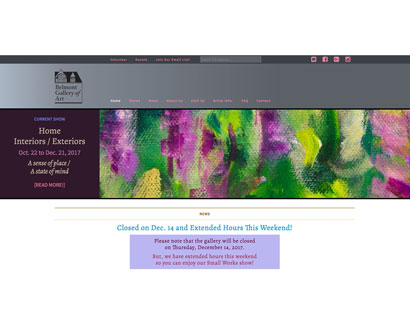
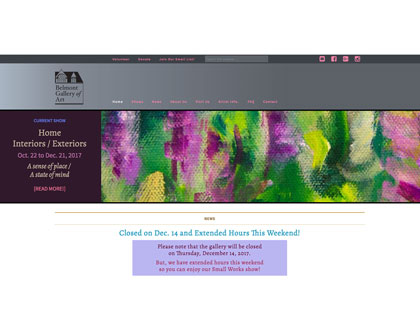
Fixing padding of gallery
• Added row to the gallery div
• Added col-md-12 after gallery div

Changed region(s): [[0.0, 0.1543, 1.0, 0.8333], [0.5268, 0.4012, 0.5561, 0.4321]]

diff --git a/app/public/pages/portgd-rec copy.php b/app/public/pages/portgd-rec copy.php
@@ -122,6 +122,7 @@
 <!-- main -->
 <main>
   <div class="container-xxl">
+
     <section class="page-title-lead">   
           <h2 class="page-title">Portfolio - Design</h2>
           <h3 class="page lead subhd">Recent Design Work</h3>
@@ -132,7 +133,7 @@
     <section class="content"><!-- content area -->
       <!-- Filtering UI -->
       <!-- Isotope Grid Container -->
-      <div class="btn-group filters-button-group mb-4" role="group" aria-label="Basic example">
+      <div class="btn-group filters-button-group mb-4" role="group" aria-label="Design filters">
         <button type="button" class="btn btn-outline-primary is-checked" data-filter="*">all</button>
         <button type="button" class="btn btn-outline-primary" data-filter=".web-design">web design</button>
         <button type="button" class="btn btn-outline-primary" data-filter=".graphic-design">graphic design</button>
@@ -143,22 +144,22 @@
 
       <div class="row mb-4">
       <div class="col-md-4 gallery-item web-design">
-        <a href="../gallery/images/portgd/2025sps-website.jpg" class="" data-toggle="lightbox" data-gallery="web-design" data-size="xl" data-caption="WEB DESIGN &amp; DEVELOPMENT - Skin Perfect Spas: </br>Site had previously used a custom theme built in 2017. Long overdue for an update, we rebuilt the site with all new content (including optimized images) and a Kadence theme. Streamlined the navigation, conformed to accessibility guidelines, and improved overall performance, functionality, security, and SEO. https://skinperfectspas.com/">
-		    <img src="../gallery/images/portgd/2025sps-website.jpg" class="img-fluid" width="1600">
+        <a href="../gallery/images/portgd/2025sps-website.jpg" class="" data-toggle="lightbox" data-gallery="design" data-size="xl" data-caption="WEB DESIGN &amp; DEVELOPMENT - Skin Perfect Spas: </br>Site had previously used a custom theme built in 2017. Long overdue for an update, we rebuilt the site with all new content (including optimized images) and a Kadence theme. Streamlined the navigation, conformed to accessibility guidelines, and improved overall performance, functionality, security, and SEO. https://skinperfectspas.com/">
+		    <img src="../gallery/images/portgd/2025sps-website-thumbnail.jpg" class="img-fluid" width="1600">
 		    <h6 class="gallery-caption text-center mt-2">Skin Perfect Spas</h6>    
         </a>
       </div>
 
       <div class="col-md-4 mb-4 gallery-item web-design">
-	      <a href="../gallery/images/portgd/2025larainearmenti-website.jpg" class="" data-toggle="lightbox" data-gallery="web-design" data-size="xl" data-caption="WEB DEVELOPMENT - Laraine Armenti: <br> Site had been using a Classic theme built with the Genesis framework. When client began experiencing barriers to content and layout modifications, we decided to switch to a more current Block theme. Site was rebuilt with a Kadence theme, enhancing functionality, performance, accessibility, security, and SEO. https://www.larainearmenti.com">
-		    <img src="../gallery/images/portgd/2025larainearmenti-website.jpg" class="img-fluid" alt="LArmenti">
+	      <a href="../gallery/images/portgd/2025larainearmenti-website.jpg" class="" data-toggle="lightbox" data-gallery="design"  data-size="xl" data-caption="WEB DEVELOPMENT - Laraine Armenti: <br> Site had been using a Classic theme built with the Genesis framework. When client began experiencing barriers to content and layout modifications, we decided to switch to a more current Block theme. Site was rebuilt with a Kadence theme, enhancing functionality, performance, accessibility, security, and SEO. https://www.larainearmenti.com">
+		    <img src="../gallery/images/portgd/2025larainearmenti-website-thumbnail.jpg" class="img-fluid" alt="LArmenti">
 		    <h6 class="gallery-caption text-center mt-2">Laraine Armenti</h6>
 	      </a>
       </div>
 
       <div class="col-md-4 mb-4 gallery-item graphic-design">
-	      <a href="../gallery/images/portgd/kornegger-breastcancerbeyond-cover-ofcp-kdp-1600.jpg" class="" data-toggle="lightbox" data-gallery="graphic-design" data-size="xl" data-caption="ART DIRECTION, GRAPHIC DESIGN, and ART<br> Book Cover and Interior of Breast Cancer &amp; Beyond: An Unexpected Soul Path by Peggy Kornegger, available on Amazon.com! The art licensed for this cover is a watercolor painting titled Magnolia. Notecards of the art are available for purchase: https://fineartamerica.com/featured/magnolia-anne-katzeff.html">
-		    <img src="../gallery/images/portgd/kornegger-breastcancerbeyond-cover-ofcp-kdp-1600.jpg" class="img-fluid" alt="BreastCancerandBeyond">
+	      <a href="../gallery/images/portgd/kornegger-breastcancerbeyond-cover-ofcp-kdp-1600.jpg" class="" data-toggle="lightbox" data-gallery="design"  data-size="xl" data-caption="ART DIRECTION, GRAPHIC DESIGN, and ART<br> Book Cover and Interior of Breast Cancer &amp; Beyond: An Unexpected Soul Path by Peggy Kornegger, available on Amazon.com! The art licensed for this cover is a watercolor painting titled Magnolia. Notecards of the art are available for purchase: https://fineartamerica.com/featured/magnolia-anne-katzeff.html">
+		    <img src="../gallery/images/portgd/kornegger-breastcancerbeyond-cover-ofcp-kdp-thumbnail.jpg" class="img-fluid" alt="BreastCancerandBeyond">
 		    <h6 class="gallery-caption text-center mt-2">Breast Cancer & Beyond</h6>
 	      </a>
       </div><!-- end of col -->
@@ -166,23 +167,23 @@
 
       <div class="row mb-4">
       <div class="col-md-4 mb-4 gallery-item web-design">
-  	    <a href="../gallery/images/portgd/2024lesleymwaite-website.jpg" class="" data-toggle="lightbox" data-gallery="web-design" data-size="xl" data-caption="WEB DESIGN &amp; DEVELOPMENT - Lesley M. Waite: </br>Moderate modifications to a Squarespace site. Primary goal was to make it look more like an author's website, showcasing Lesley's books and providing some Calls to Action. <br>
+  	    <a href="../gallery/images/portgd/2024lesleymwaite-website.jpg" class="" data-toggle="lightbox" data-gallery="design"  data-size="xl" data-caption="WEB DESIGN &amp; DEVELOPMENT - Lesley M. Waite: </br>Moderate modifications to a Squarespace site. Primary goal was to make it look more like an author's website, showcasing Lesley's books and providing some Calls to Action. <br>
 		    Key changes: • Improved layout • New content: pages, images, CTA, Instagram feed. • Widened content area. • Placed social media icons in more prominent positions. • Adjusted navigation. Take a look at her website and enjoy! https://www.lesleymwaite.com/">
-		    <img src="../gallery/images/portgd/2024lesleymwaite-website.jpg" class="img-fluid">
+		    <img src="../gallery/images/portgd/2024lesleymwaite-website-thumbnail.jpg" class="img-fluid">
 		    <h6 class="gallery-caption text-center mt-2">Lesley M. Waite</h6>
 	      </a>
       </div>
 
       <div class="col-md-4 mb-4 gallery-item web-design">
-  	    <a href="../gallery/images/portgd/2024mondorocco-website.jpg" class="" data-toggle="lightbox" data-gallery="web-design" data-size="xl" data-caption="WEB DESIGN &amp; DEVELOPMENT - MondoRocco: </br>Overhaul of 10+ year-old website. Updated layout, code, mobile-responsiveness, navigation. Adapted branding colors, logo, and icons to current web accessibility standards and SEO. Rebuilt with WordPress. Key new features: • Created a child theme, based on the 2024 theme, using the Full Site Editor and the Create Block Theme plugin. • Wider content area. • Consolidated content on a single page. • Updated the icons. • Increased the font sizes, changed typefaces. • Installed an SSL certificate. • Optimized and used Alt text on all images. • Improved functionality, accessibility, and mobile-responsiveness. • Increased site speed. Take a look at his new website and enjoy! https://www.mondorocco.com/">
-		    <img src="../gallery/images/portgd/2024mondorocco-website.jpg" class="img-fluid">
+  	    <a href="../gallery/images/portgd/2024mondorocco-website.jpg" class="" data-toggle="lightbox" data-gallery="design"  data-size="xl" data-caption="WEB DESIGN &amp; DEVELOPMENT - MondoRocco: </br>Overhaul of 10+ year-old website. Updated layout, code, mobile-responsiveness, navigation. Adapted branding colors, logo, and icons to current web accessibility standards and SEO. Rebuilt with WordPress. Key new features: • Created a child theme, based on the 2024 theme, using the Full Site Editor and the Create Block Theme plugin. • Wider content area. • Consolidated content on a single page. • Updated the icons. • Increased the font sizes, changed typefaces. • Installed an SSL certificate. • Optimized and used Alt text on all images. • Improved functionality, accessibility, and mobile-responsiveness. • Increased site speed. Take a look at his new website and enjoy! https://www.mondorocco.com/">
+		    <img src="../gallery/images/portgd/2024mondorocco-website-thumbnail.jpg" class="img-fluid">
 		    <h6 class="gallery-caption text-center mt-2">MondoRocco</h6>
 	      </a>
       </div>
 
       <div class="col-md-4 mb-4 gallery-item web-design">
-        <a href="../gallery/images/portgd/2023janetsmithphotos-website.jpg" class="" data-toggle="lightbox" data-gallery="web-design" data-size="xl" data-caption="WEB DESIGN &amp; DEVELOPMENT - Janet Smith Photos: </br>Website design, development, and maintenance. Updated site with more user-friendly theme; improved functionality, accessibility, and mobile-responsiveness; increased site speed. https://janetsmithphotos.com/">
-		    <img src="../gallery/images/portgd/2023janetsmithphotos-website.jpg" class="img-fluid">
+        <a href="../gallery/images/portgd/2023janetsmithphotos-website.jpg" class="" data-toggle="lightbox" data-gallery="design"  data-size="xl" data-caption="WEB DESIGN &amp; DEVELOPMENT - Janet Smith Photos: </br>Website design, development, and maintenance. Updated site with more user-friendly theme; improved functionality, accessibility, and mobile-responsiveness; increased site speed. https://janetsmithphotos.com/">
+		    <img src="../gallery/images/portgd/2023janetsmithphotos-website-thumbnail.jpg" class="img-fluid">
 		    <h6 class="gallery-caption text-center mt-2">Janet Smith Photos</h6>
 	      </a>
       </div>
@@ -191,22 +192,22 @@
 
       <div class="row">
       <div class="col-md-4 mb-4 gallery-item web-design">
-  	    <a href="../gallery/images/portgd/2023SenatorMikeBarrett-website.jpg" class="" data-toggle="lightbox" data-gallery="web-design" data-size="xl" data-caption="WEB DEVELOPMENT - Senator Mike Barrett: </br>Site evaluation, consult, and update: clean up plugins area, optimize images, improve functionality, configure Google Analytics. https://senatormikebarrett.com/">
-		    <img src="../gallery/images/portgd/2023SenatorMikeBarrett-website.jpg" class="img-fluid">
+  	    <a href="../gallery/images/portgd/2023SenatorMikeBarrett-website.jpg" class="" data-toggle="lightbox" data-gallery="design"  data-size="xl" data-caption="WEB DEVELOPMENT - Senator Mike Barrett: </br>Site evaluation, consult, and update: clean up plugins area, optimize images, improve functionality, configure Google Analytics. https://senatormikebarrett.com/">
+		    <img src="../gallery/images/portgd/2023SenatorMikeBarrett-website-thumbnail.jpg" class="img-fluid">
 		    <h6 class="gallery-caption text-center mt-2">Senator Mike Barrett</h6>
 	      </a>
       </div>
 
       <div class="col-md-4 mb-4 gallery-item web-design">
-  	    <a href="../gallery/images/portgd/2022TFord-website.jpg" class="" data-toggle="lightbox" data-gallery="web-design" data-size="xl" data-caption="WEB DESIGN &amp; DEVELOPMENT - TFord: </br>Client requested a fresh, new design and a parallax scroll effect on the Home page. Tools included Photoshop, Adobe XD, and Bootstrap. https://tford.com/">
-		    <img src="../gallery/images/portgd/2022TFord-website.jpg" class="img-fluid">
+  	    <a href="../gallery/images/portgd/2022TFord-website.jpg" class="" data-toggle="lightbox" data-gallery="design"  data-size="xl" data-caption="WEB DESIGN &amp; DEVELOPMENT - TFord: </br>Client requested a fresh, new design and a parallax scroll effect on the Home page. Tools included Photoshop, Adobe XD, and Bootstrap. https://tford.com/">
+		    <img src="../gallery/images/portgd/2022TFord-website-thumbnail.jpg" class="img-fluid">
 		    <h6 class="gallery-caption text-center mt-2">TFord</h6>
 	      </a>
       </div>
 
       <div class="col-md-4 mb-4 gallery-item graphic-design">
         <a href="../gallery/images/portgd/kornegger-rainbow-cover-ofcp-kdp-1600.jpg" class="" data-toggle="lightbox" data-gallery="graphic-design" data-size="xl" data-caption="ART DIRECTION, GRAPHIC DESIGN, and ART </br>Book Cover and Interior of <em>Inside the Rainbow: Soul Connection in Nature</em> by Peggy Kornegger, available on Amazon.com! The art licensed for this cover is a pastel painting titled Palm and Orchid. Notecards of the art are available for purchase: https://fineartamerica.com/featured/palm-and-orchid-anne-katzeff.html">
-		    <img src="../gallery/images/portgd/kornegger-rainbow-cover-ofcp-kdp-1600.jpg" class="img-fluid">
+		    <img src="../gallery/images/portgd/kornegger-rainbow-cover-ofcp-kdp-thumbnail.jpg" class="img-fluid">
 		    <h6 class="gallery-caption text-center mt-2">Inside the Rainbow</h6>
 	      </a>
       </div>
@@ -215,25 +216,25 @@
 
       <div class="row">
       <div class="col-md-4 mb-4 gallery-item web-design">
-  	    <a href="../gallery/images/portgd/2021robertdix-website.jpg" class="" data-toggle="lightbox" data-gallery="web-design" data-size="xl" data-caption="WEB DESIGN &amp; DEVELOPMENT - Robert Dix: </br>
+  	    <a href="../gallery/images/portgd/2021robertdix-website.jpg" class="" data-toggle="lightbox" data-gallery="design"  data-size="xl" data-caption="WEB DESIGN &amp; DEVELOPMENT - Robert Dix: </br>
         Created website for musician on WordPress platform. Moderate customizations, consult, and maintenance.	https://robertdix.org/">
-		    <img src="../gallery/images/portgd/2021robertdix-website.jpg" class="img-fluid">
+		    <img src="../gallery/images/portgd/2021robertdix-website-thumbnail.jpg" class="img-fluid">
 		    <h6 class="gallery-caption text-center mt-2">Robert Dix</h6>
 	      </a>
       </div>
 
       <div class="col-md-4 mb-4 gallery-item web-design">
-  	    <a href="../gallery/images/portgd/2021abbeyk-website.jpg" class="" data-toggle="lightbox" data-gallery="web-design" data-size="xl" data-caption="WEB DESIGN &amp; DEVELOPMENT - AbbeyK: </br>
+  	    <a href="../gallery/images/portgd/2021abbeyk-website.jpg" class="" data-toggle="lightbox" data-gallery="design"  data-size="xl" data-caption="WEB DESIGN &amp; DEVELOPMENT - AbbeyK: </br>
         Updated site with more user-friendly theme; improved functionality and mobile-responsiveness; increased site speed.">
-		    <img src="../gallery/images/portgd/2021abbeyk-website.jpg" class="img-fluid">
+		    <img src="../gallery/images/portgd/2021abbeyk-website-thumbnail.jpg" class="img-fluid">
 		    <h6 class="gallery-caption text-center mt-2">AbbeyK</h6>
 	      </a>
       </div>
 
       <div class="col-md-4 mb-4 gallery-item web-design">
-  	    <a href="../gallery/images/portgd/2020barrett-website.jpg" class="" data-toggle="lightbox" data-gallery="web-design" data-size="xl" data-caption="WEB DESIGN &amp; DEVELOPMENT - Mike Barrett: </br>
+  	    <a href="../gallery/images/portgd/2020barrett-website.jpg" class="" data-toggle="lightbox" data-gallery="design"  data-size="xl" data-caption="WEB DESIGN &amp; DEVELOPMENT - Mike Barrett: </br>
         Improved aesthetics, functionality, and mobile-responsiveness. https://www.barrettforstatesenate.org/">
-		    <img src="../gallery/images/portgd/2020barrett-website.jpg" class="img-fluid">
+		    <img src="../gallery/images/portgd/2020barrett-website-thumbnail.jpg" class="img-fluid">
 		    <h6 class="gallery-caption text-center mt-2">Barrett for State Senate</h6>
 	      </a>
       </div>
@@ -242,25 +243,25 @@
 
       <div class="row">
       <div class="col-md-4 mb-4 gallery-item web-design">
-  	    <a href="../gallery/images/portgd/2020kastles-website.jpg" class="" data-toggle="lightbox" data-gallery="web-design" data-size="xl" data-caption="WEB DEVELOPMENT - Kathleen Kastles: </br>
+  	    <a href="../gallery/images/portgd/2020kastles-website.jpg" class="" data-toggle="lightbox" data-gallery="design"  data-size="xl" data-caption="WEB DEVELOPMENT - Kathleen Kastles: </br>
         Website updates, customization, and consult.">
-		    <img src="../gallery/images/portgd/2020kastles-website.jpg" class="img-fluid">
+		    <img src="../gallery/images/portgd/2020kastles-website-thumbnail.jpg" class="img-fluid">
 		    <h6 class="gallery-caption text-center mt-2">Kathleen Kastles</h6>
 	      </a>
       </div>
 
       <div class="col-md-4 mb-4 gallery-item web-design">
-  	    <a href="../gallery/images/portgd/2020alarmenti-website.jpg" class="" data-toggle="lightbox" data-gallery="web-design" data-size="xl" data-caption="WEB DEVELOPMENT - Al Armenti: </br>
+  	    <a href="../gallery/images/portgd/2020alarmenti-website.jpg" class="" data-toggle="lightbox" data-gallery="design"  data-size="xl" data-caption="WEB DEVELOPMENT - Al Armenti: </br>
         Clone site from WordPress.com to WordPress.org subdomain, customizations, and consult. https://alarmenti.larainearmenti.com/">
-		    <img src="../gallery/images/portgd/2020alarmenti-website.jpg" class="img-fluid">
+		    <img src="../gallery/images/portgd/2020alarmenti-website-thumbnail.jpg" class="img-fluid">
 		    <h6 class="gallery-caption text-center mt-2">Al Armenti</h6>
 	      </a>
       </div>
 
       <div class="col-md-4 mb-4 gallery-item web-design">
-  	    <a href="../gallery/images/portgd/2019baa-website.jpg" class="" data-toggle="lightbox" data-gallery="web-design" data-size="xl" data-caption="WEB DESIGN &amp; DEVELOPMENT - Belmont Art Association: </br>
+  	    <a href="../gallery/images/portgd/2019baa-website.jpg" class="" data-toggle="lightbox" data-gallery="design"  data-size="xl" data-caption="WEB DESIGN &amp; DEVELOPMENT - Belmont Art Association: </br>
         Website design, customization, and maintenance. Improved aesthetics, functionality, and mobile-responsiveness. https://www.belmontart.org/">
-		    <img src="../gallery/images/portgd/2019baa-website.jpg" class="img-fluid">
+		    <img src="../gallery/images/portgd/2019baa-website-thumbnail.jpg" class="img-fluid">
 		    <h6 class="gallery-caption text-center mt-2">Belmont Art Association</h6>
 	      </a>
       </div>
@@ -269,25 +270,25 @@
 
       <div class="row">
       <div class="col-md-4 mb-4 gallery-item web-design">
-  	    <a href="../gallery/images/portgd/2019kwelling-website.jpg" class="" data-toggle="lightbox" data-gallery="web-design" data-size="xl" data-caption="WEB DEVELOPMENT - Welling Coaching and Counseling: </br>
+  	    <a href="../gallery/images/portgd/2019kwelling-website.jpg" class="" data-toggle="lightbox" data-gallery="design"  data-size="xl" data-caption="WEB DEVELOPMENT - Welling Coaching and Counseling: </br>
         Website maintenance and consult. https://www.kwelling.com/">
-		    <img src="../gallery/images/portgd/2019kwelling-website.jpg" class="img-fluid">
+		    <img src="../gallery/images/portgd/2019kwelling-website-thumbnail.jpg" class="img-fluid">
 		    <h6 class="gallery-caption text-center mt-2">Welling Coaching and Counseling</h6>
 	      </a>
       </div>
 
       <div class="col-md-4 mb-4 gallery-item web-design">
-  	    <a href="../gallery/images/portgd/2018zamir-website.jpg" class="" data-toggle="lightbox" data-gallery="web-design" data-size="xl" data-caption="WEB DESIGN &amp; DEVELOPMENT - Zamir Chorale of Boston: </br>
+  	    <a href="../gallery/images/portgd/2018zamir-website.jpg" class="" data-toggle="lightbox" data-gallery="design"  data-size="xl" data-caption="WEB DESIGN &amp; DEVELOPMENT - Zamir Chorale of Boston: </br>
         Website design, customization, and maintenance. Special Features: members portal, slide shows, Constant Contact/YouTube/Paypal integration. https://www.zamir.org/">
-		    <img src="../gallery/images/portgd/2018zamir-website.jpg" class="img-fluid">
+		    <img src="../gallery/images/portgd/2018zamir-website-thumbnail.jpg" class="img-fluid">
 		    <h6 class="gallery-caption text-center mt-2">Zamir Chorale of Boston</h6>
 	      </a>
       </div>
 
       <div class="col-md-4 mb-4 gallery-item web-design">
-  	    <a href="../gallery/images/portgd/2018perpetualmobiles-website.jpg" class="" data-toggle="lightbox" data-gallery="web-design" data-size="xl" data-caption="WEB DESIGN &amp; DEVELOPMENT - Perpetual Mobiles: </br>
+  	    <a href="../gallery/images/portgd/2018perpetualmobiles-website.jpg" class="" data-toggle="lightbox" data-gallery="design"  data-size="xl" data-caption="WEB DESIGN &amp; DEVELOPMENT - Perpetual Mobiles: </br>
         Website design, customization, and maintenance. https://www.perpetualmobiles.com">
-		    <img src="../gallery/images/portgd/2018perpetualmobiles-website.jpg" class="img-fluid">
+		    <img src="../gallery/images/portgd/2018perpetualmobiles-website-thumbnail.jpg" class="img-fluid">
 		    <h6 class="gallery-caption text-center mt-2">Perpetual Mobiles</h6>
 	      </a>
       </div>
@@ -296,25 +297,25 @@
 
       <div class="row">
       <div class="col-md-4 mb-4 gallery-item web-design">
-  	    <a href="../gallery/images/portgd/2018morse-website..jpg" class="" data-toggle="lightbox" data-gallery="web-design" data-size="xl" data-caption="WEB DESIGN &amp; DEVELOPMENT - Helen Morse / Photographer: </br>
+  	    <a href="../gallery/images/portgd/2018morse-website.jpg" class="" data-toggle="lightbox" data-gallery="design"  data-size="xl" data-caption="WEB DESIGN &amp; DEVELOPMENT - Helen Morse / Photographer: </br>
         Photoshelter platform customization, and maintenance. https://www.helenmorse.com">
-		    <img src="../gallery/images/portgd/2018morse-website.jpg" class="img-fluid">
+		    <img src="../gallery/images/portgd/2018morse-website-thumbnail.jpg" class="img-fluid">
 		    <h6 class="gallery-caption text-center mt-2">Helen Morse / Photographer</h6>
 	      </a>
       </div>
 
       <div class="col-md-4 mb-4 gallery-item web-design">
-  	    <a href="../gallery/images/portgd/2017bga-website.jpg" class="" data-toggle="lightbox" data-gallery="web-design" data-size="xl" data-caption="WEB DESIGN &amp; DEVELOPMENT - Belmont Gallery of Art: </br>
+  	    <a href="../gallery/images/portgd/2017bga-website.jpg" class="" data-toggle="lightbox" data-gallery="design"  data-size="xl" data-caption="WEB DESIGN &amp; DEVELOPMENT - Belmont Gallery of Art: </br>
         Website design, customization, and maintenance. Special Features: slide shows, event listings, Constant Contact, and SignUp.com integration. http://www.belmontgallery.org/">
-		    <img src="../gallery/images/portgd/2017bga-website.jpg" class="img-fluid">
+		    <img src="../gallery/images/portgd/2017bga-website-thumbnail.jpg" class="img-fluid">
 		    <h6 class="gallery-caption text-center mt-2">Belmont Gallery of Art</h6>
 	      </a>
       </div>
 
       <div class="col-md-4 mb-4 gallery-item web-design">
-  	    <a href="../gallery/images/portgd/2017katzeff-paul-website.jpg" class="" data-toggle="lightbox" data-gallery="web-design" data-size="xl" data-caption="WEB DESIGN &amp; DEVELOPMENT - Paul Katzeff:  </br>
+  	    <a href="../gallery/images/portgd/2017katzeff-paul-website.jpg" class="" data-toggle="lightbox" data-gallery="design"  data-size="xl" data-caption="WEB DESIGN &amp; DEVELOPMENT - Paul Katzeff:  </br>
         Website design, customization, and maintenance. https://www.paulkatzeff.com/">
-		    <img src="../gallery/images/portgd/2017katzeff-paul-website.jpg" class="img-fluid">
+		    <img src="../gallery/images/portgd/2017katzeff-paul-website-thumbnail.jpg" class="img-fluid">
 		    <h6 class="gallery-caption text-center mt-2">Paul Katzeff</h6>
 	      </a>
       </div>
@@ -322,10 +323,11 @@
       </div><!-- end of row -->
 
 
-   </div><!-- end of gallery -->
+    </div><!-- end of gallery -->
     
-   </section><!-- end of content -->
+    </section><!-- end of content -->
 
+  </div><!-- end of container -->
 </main><!-- end of main -->
 
 <section class="subscribe-section"><!-- subscribe -->

diff --git a/app/public/pages/portgd-rec.php b/app/public/pages/portgd-rec.php
@@ -139,8 +139,8 @@
         <button type="button" class="btn btn-outline-primary" data-filter=".graphic-design">graphic design</button>
       </div>
 
-    <div class="gallery">
-
+    <div class="gallery row">
+    <div class="col-md-12"><!-- columns -->
 
       <div class="row mb-4">
       <div class="col-md-4 gallery-item web-design">
@@ -323,7 +323,13 @@
       </div><!-- end of row -->
 
 
-    </div><!-- end of gallery -->
+    </div><!-- columns -->
+
+    </div><!-- end of gallery row -->
+
+
+
+
     
     </section><!-- end of content -->
 
